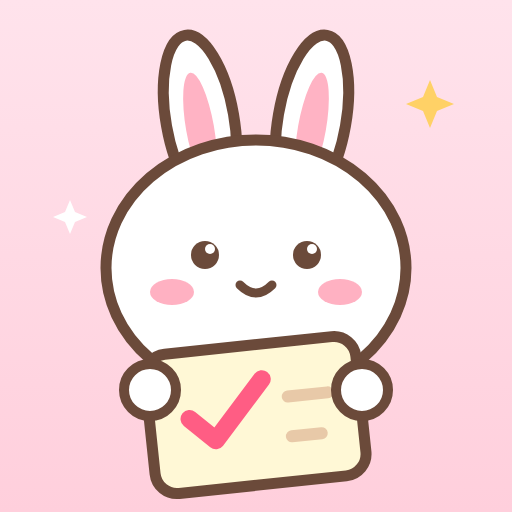
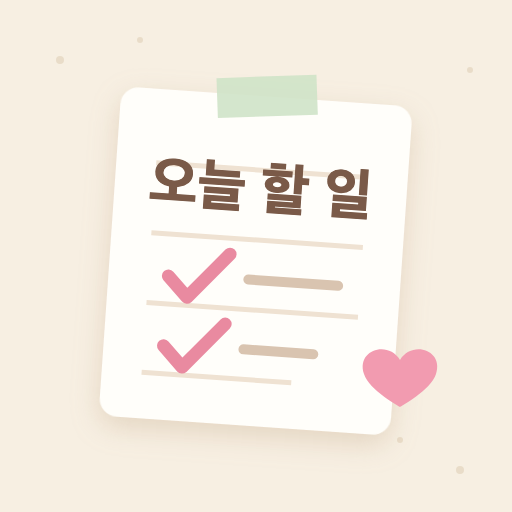
앱 아이콘: 크림톤 오늘 할 일 메모 (3번)

diff --git a/index.html b/index.html
@@ -5,13 +5,13 @@
 <meta name="viewport" content="width=device-width,initial-scale=1,viewport-fit=cover">
 <title>오늘 꼭! 할 일</title>
 <meta name="theme-color" content="#ffe8a3">
-<link rel="manifest" href="manifest.json?v=3">
-<link rel="apple-touch-icon" href="apple-touch-icon.png?v=3">
+<link rel="manifest" href="manifest.json?v=4">
+<link rel="apple-touch-icon" href="apple-touch-icon.png?v=4">
 <meta name="apple-mobile-web-app-capable" content="yes">
 <meta name="mobile-web-app-capable" content="yes">
 <meta name="apple-mobile-web-app-title" content="할 일">
 <meta name="apple-mobile-web-app-status-bar-style" content="default">
-<link rel="icon" href="icon-192.png?v=3">
+<link rel="icon" href="icon-192.png?v=4">
 <link href="https://fonts.googleapis.com/css2?family=Gaegu:wght@400;700&family=Gamja+Flower&display=swap" rel="stylesheet">
 <style>
 :root{--bg:#fff8ec;--ink:#4d3b33;--sub:#a08c80;--pink:#ff8fab;--red:#ff5d73;--yel:#ffe48a;--grn:#6cc78c}
@@ -524,7 +524,7 @@ function openSet(){const draw=()=>{openSheet(`<h3>⚙ 설정<button class="x"
   <div class="share" style="background:#fff4e0">${/KAKAOTALK/i.test(navigator.userAgent)?`카톡 안에서는 홈 화면에 못 넣어요. 먼저 👇<div class="btns" style="margin-top:6px"><button class="pri" id="ext">🌐 인터넷 앱으로 열기</button></div><span class="note">(안 되면 오른쪽 아래 ⋯/공유 → 「다른 브라우저로 열기」)</span><br>`:''}
    <b>아이폰</b>: 사파리 아래 <b>공유 버튼(⬆)</b> → <b>「홈 화면에 추가」</b><br>
    <b>갤럭시</b>: 크롬/삼성인터넷 <b>⋮ 메뉴</b> → <b>「홈 화면에 추가」</b> (또는 「앱 설치」)<br>
-   <span class="note">🐰 토끼 아이콘이 생기고, 카톡이랑 따로 열려서 왔다 갔다 편해요. 메모는 같은 내 코드로 그대로 보여요.</span></div>
+   <span class="note">📝 「오늘 할 일」 메모 아이콘이 생기고, 카톡이랑 따로 열려서 왔다 갔다 편해요. 메모는 같은 내 코드로 그대로 보여요.</span></div>
   <div class="lbl">🔔 소리</div><label class="sw"><input type="checkbox" id="snd" ${S.sound?'checked':''}> 완료할 때 뿅 소리</label>
   <div class="lbl">☁ 온라인 저장 · 내 링크</div>
   <div class="share">메모는 <b>온라인에 저장</b>돼요. 아래 <b>내 링크</b>로 열면 카톡·사파리·다른 폰 어디서든 같은 메모가 보여요.<br>
